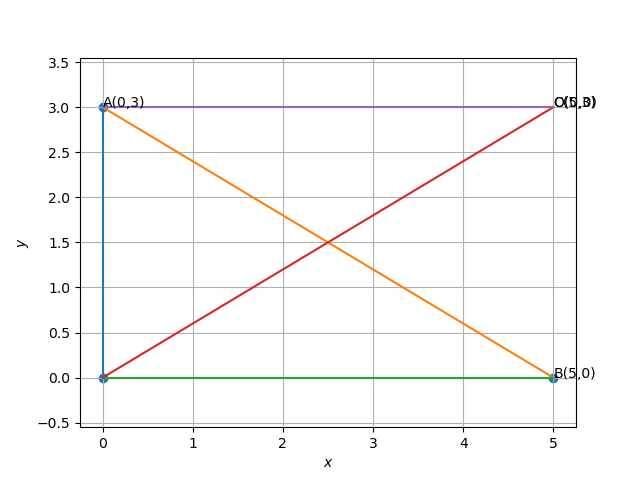
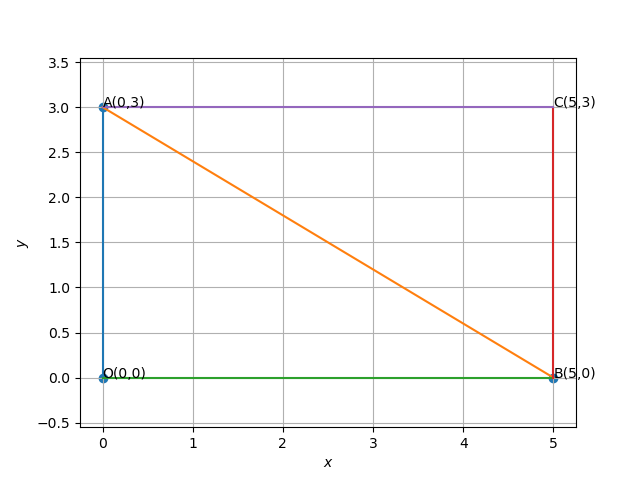
matgeo

diff --git a/ai25btech11035/matgeo/1.8.11/codes/plotting.py b/ai25btech11035/matgeo/1.8.11/codes/plotting.py
@@ -22,12 +22,12 @@ coords = np.block([[A,B,O]])
 AO = line_gen(A,O)
 AB = line_gen(A,B)
 BO = line_gen(B,O)
-CO = line_gen(C,O)
+BC = line_gen(B,C)
 AC = line_gen(A,C)
 plt.plot(AO[0,:],AO[1,:])
 plt.plot(AB[0,:],AB[1,:])
 plt.plot(BO[0,:],BO[1,:])
-plt.plot(CO[0,:],CO[1,:])
+plt.plot(BC[0,:],BC[1,:])
 plt.plot(AC[0,:],AC[1,:])
 plt.scatter(coords[0,:],coords[1,:])
 
@@ -35,7 +35,7 @@ plt.scatter(coords[0,:],coords[1,:])
 plt.text(A[0],A[1],"A(0,3)")
 plt.text(B[0],B[1],"B(5,0)")
 plt.text(C[0],C[1],"C(5,3)")
-plt.text(C[0],C[1],"O(0,0)")
+plt.text(O[0],O[1],"O(0,0)")
 plt.xlabel('$x$')
 plt.ylabel('$y$')
 plt.grid() # minor

diff --git a/ai25btech11035/matgeo/1.8.11/main.tex b/ai25btech11035/matgeo/1.8.11/main.tex
@@ -84,7 +84,7 @@ Then the length of the diagonal AB is :
     \end{align}
     \begin{figure}[H]
     \centering
-    \includegraphics[width = 0.2\columnwidth]{figs/img.png}
+    \includegraphics[width = 0.7\columnwidth]{figs/img.png}
     \caption*{}
     \label{img}
 \end{figure}

diff --git a/ai25btech11035/matgeo/1.8.11/main-slides.tex b/ai25btech11035/matgeo/1.8.11/main-slides.tex
@@ -101,7 +101,7 @@ Then the length of the diagonal AB is :
     \end{align}
  \begin{figure}[H]
     \centering
-    \includegraphics[width = 0.2\columnwidth]{figs/img.>
+    \includegraphics[width = 0.7\columnwidth]{figs/img.>
     \caption*{}
     \label{img}
 \end{figure}   
